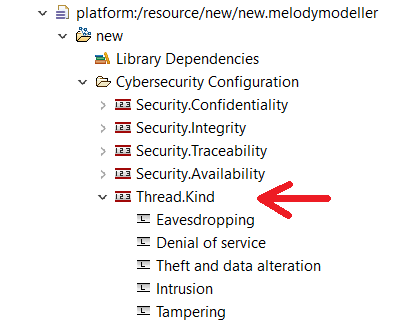
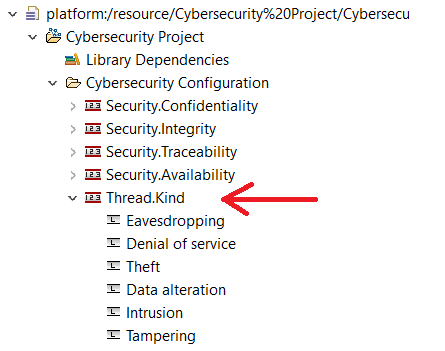
Data alteration and theft

Changed region(s): [[0.058, 0.0, 0.9275, 0.7716], [0.2319, 0.8025, 0.7826, 0.9877], [0.0, 0.0309, 0.029, 0.0617]]

diff --git a/plugins/org.polarsys.capella.cybersecurity.doc/html/usermanual.html b/plugins/org.polarsys.capella.cybersecurity.doc/html/usermanual.html
@@ -60,7 +60,11 @@
 			</tr>
 			<tr>
 				<td>Theft and data alteration</td>
-				<td>Stealing, leaking data, modifying data, erasing data, attack against traceability or against rogue action detection.</td>
+				<td>Stealing, leaking data, attack against traceability or against rogue action detection.</td>
+			</tr>
+			<tr>
+				<td>Data alteration</td>
+				<td>Modifying data, erasing data.</td>
 			</tr>
 			<tr>
 				<td>Denial of Service</td>
@@ -75,7 +79,7 @@
 				<td>Tampering attacks refer to many forms of sabotage (intentional modification of the information system in a way that makes them harmful).</td>
 			</tr>
 		</table>
-		<p>A 
+		<p>
 			<i>Threat kinds</i> can be customized by the user in the Cybersecurity Configuration, by editing the Threat.Kind type.
 		</p>
 		<p>
@@ -275,7 +279,7 @@
 			<img border="0" src="Images/layers.png"/>
 		</p>
 		<h3 id="Assets_Layer">Assets Layer</h3>
-		<p>The Assets Layer will display in the diagram the inserted assets. The elements that are threatened by them will be highlighted with the same border color as the asset color. If two ore more assets threat the same element and at least two of them are displayed in diagram, the border color of the element will be black.</p>
+		<p>The Assets Layer will display in the diagram the inserted assets. The elements that are threatened by them will be highlighted with the same border color as the asset color. If two or more assets threat the same element and at least two of them are displayed in diagram, the border color of the element will be black.</p>
 		<p>
 			<img border="0" src="Images/pab_diagram_4.png"/> 
 		</p>

diff --git a/plugins/org.polarsys.capella.cybersecurity.model/src/org/polarsys/capella/cybersecurity/model/activator/CybersecurityModelActivator.java b/plugins/org.polarsys.capella.cybersecurity.model/src/org/polarsys/capella/cybersecurity/model/activator/CybersecurityModelActivator.java
@@ -44,7 +44,8 @@ public class CybersecurityModelActivator implements BundleActivator {
   
   public static final String CYBERSECURITY_CFG_THREAD_KIND_KEYWORD = "Thread.Kind";
   public static final String THREAT_KIND_EAVESDROPPING_KEYWORD = "Eavesdropping";
-  public static final String THREAT_KIND_THEFT_AND_DATA_ALTERATION_KEYWORD = "Theft and data alteration";
+  public static final String THREAT_KIND_THEFT_KEYWORD = "Theft";
+  public static final String THREAT_KIND_DATA_ALTERATION_KEYWORD = "Data alteration";
   public static final String THREAT_KIND_DENIAL_OF_SERVICE_KEYWORD = "Denial of service";
   public static final String THREAT_KIND_INTRUSION_KEYWORD = "Intrusion";
   public static final String THREAT_KIND_TAMPERING_KEYWORD = "Tampering";
@@ -136,7 +137,8 @@ public class CybersecurityModelActivator implements BundleActivator {
     EnumerationPropertyType type = CapellacoreFactory.eINSTANCE.createEnumerationPropertyType(typeName);
     type.getOwnedLiterals().add(CapellacoreFactory.eINSTANCE.createEnumerationPropertyLiteral(THREAT_KIND_EAVESDROPPING_KEYWORD));
     type.getOwnedLiterals().add(CapellacoreFactory.eINSTANCE.createEnumerationPropertyLiteral(THREAT_KIND_DENIAL_OF_SERVICE_KEYWORD));
-    type.getOwnedLiterals().add(CapellacoreFactory.eINSTANCE.createEnumerationPropertyLiteral(THREAT_KIND_THEFT_AND_DATA_ALTERATION_KEYWORD));
+    type.getOwnedLiterals().add(CapellacoreFactory.eINSTANCE.createEnumerationPropertyLiteral(THREAT_KIND_THEFT_KEYWORD));
+    type.getOwnedLiterals().add(CapellacoreFactory.eINSTANCE.createEnumerationPropertyLiteral(THREAT_KIND_DATA_ALTERATION_KEYWORD));
     type.getOwnedLiterals().add(CapellacoreFactory.eINSTANCE.createEnumerationPropertyLiteral(THREAT_KIND_INTRUSION_KEYWORD));
     type.getOwnedLiterals().add(CapellacoreFactory.eINSTANCE.createEnumerationPropertyLiteral(THREAT_KIND_TAMPERING_KEYWORD));
     config.getOwnedEnumerationPropertyTypes().add(type);
